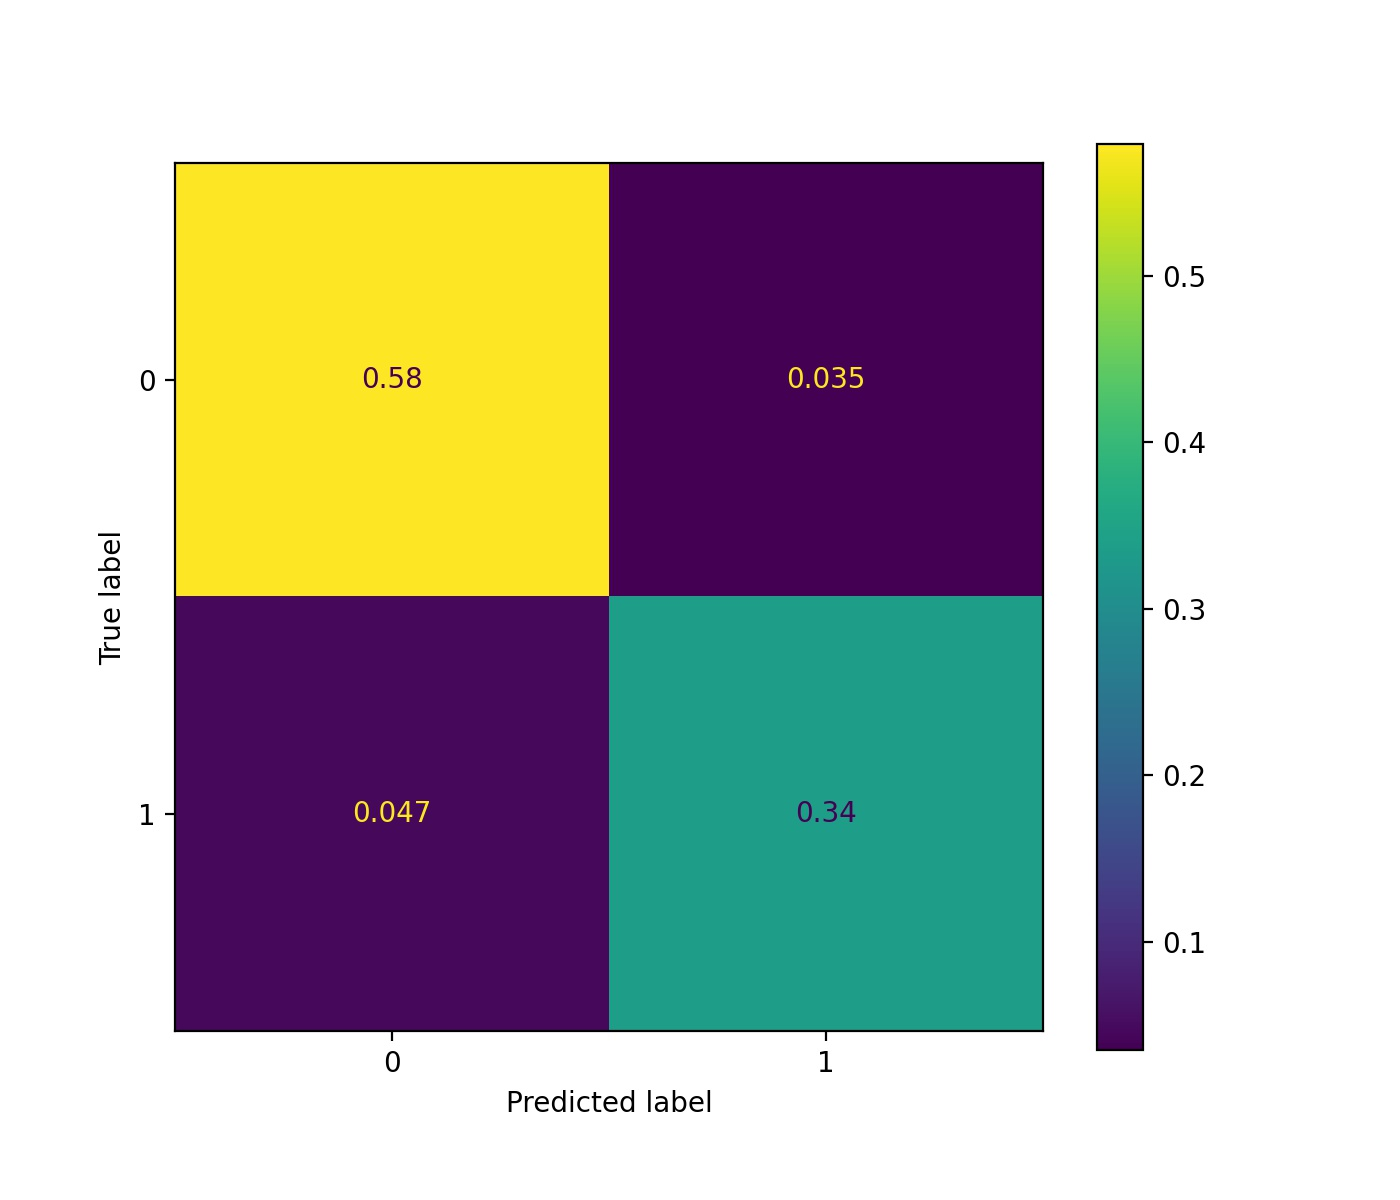
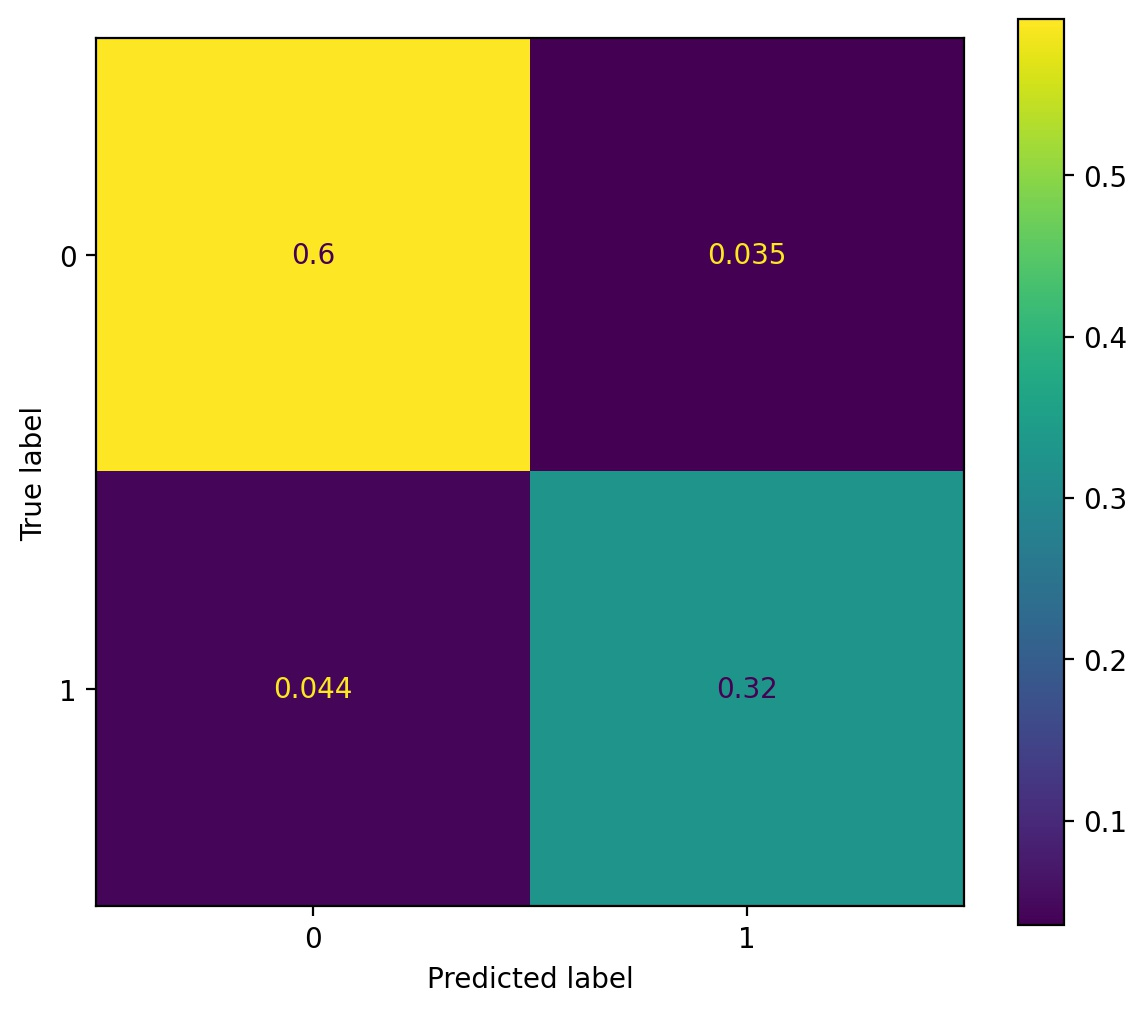
remade some plots, added show_image folder

diff --git a/breast_cancer_predictor/predictor/views.py b/breast_cancer_predictor/predictor/views.py
@@ -9,6 +9,10 @@ from sklearn.metrics import precision_score, recall_score
 from sklearn.metrics import plot_precision_recall_curve, plot_roc_curve
 import pandas as pd
 import numpy as np
+import warnings
+
+warnings.filterwarnings("ignore")
+warnings.simplefilter(action='ignore', category=FutureWarning)  
 
 
 def index(request):
@@ -38,25 +42,21 @@ def predict(request):
         y = df['diagnosis']
 
         X_train, X_test, y_train, y_test = train_test_split(X, y, test_size=0.2, random_state=101)
-        scaler = StandardScaler()
-        scaled_X_train = scaler.fit_transform(X_train)
-        scaled_X_test = scaler.transform(X_test)
 
         log_model = LogisticRegressionCV()
 
-        log_model.get_params()
+        log_model.fit(X_train, y_train)
+        y_pred = log_model.predict(X_test)
 
-        log_model.fit(scaled_X_train, y_train)
-        y_pred = log_model.predict(scaled_X_test)
+        result = float(log_model.predict(patient_info)[0])
 
-        log_model.C_
-        log_model.get_params()
+        if result > 0:
+            msg = "Our model predicts that this mass is cancerous"
+        else:
+            msg = "Our model predicts that this mass is not cancerous"
 
-        confusion_matrix(y_test,y_pred)
+        print(msg)
         print(classification_report(y_test,y_pred))
-
-        print(log_model.predict(patient_info))
-        print(log_model.predict_proba(patient_info))
-        # return '<h1>result: {}, proba: {}</h1>'.format(str(log_model.predict(patient_info)), str(log_model.predict_proba(patient_info)))
-
+        return redirect('/predict/')
+        
     return render(request, 'predictForm.html', {'form':form})
